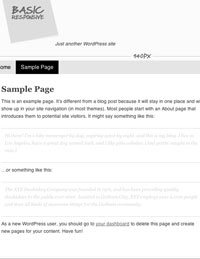
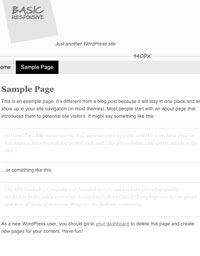
fixed absolute positioning issue on form validation (needed relative container), moved script calling to scripts.js

diff --git a/css/style.css b/css/style.css
@@ -85,12 +85,16 @@ background:white; color:black;}
 	-moz-transition:background-color 0.1s linear; 
 	transition:background 0.1s linear;
 	}
+	
+#formcontainer {
+	position:relative;
+}
 
 .nameval, .mailval, .msgval, .subjectval {
 	background: rgba(225, 0, 0, 0.8); color:#fff;
 	font-family:'Helvetica','Arial','Sans-serif';
 	display:none; font-size:12px; padding:5px;
-	position: absolute; top:502px; left:270px;
+	position: absolute; left:205px;
 	text-align:center; width:100px;
 	-webkit-transition:background-color 0.1s linear; 
 	-moz-transition:background-color 0.1s linear; 
@@ -98,9 +102,10 @@ background:white; color:black;}
 	border-radius:5px; -moz-border-radius:5px; -webkit-border-radius:5px;
 }
 
-.nameval {top:468px;}
-.subjectval {top:535px;}
-.msgval {top:573px;}
+.nameval {top:274px;}
+.mailval {top:308px;}
+.subjectval {top:342px;}
+.msgval {top:379px;}
 
 
 #contact input:focus:required:invalid,
@@ -150,8 +155,8 @@ background:white; color:black;}
 	}
 
 /*** CONTENT COLUMN ***/
-#web {margin-top: 38px;}
-#illustration, #print {margin:0;}
+article#content-col section:nth-child(1) {margin-top: 38px;}
+article#content-col section:nth-child(2), #content-col section:nth-child(3) {margin:0;}
 .portbox {width:200px; height:256px; float:left; margin:0;}
 .portbox h2 {font-size: 24px;} .portbox h3 {font-size: 20px;} .portbox p {font-size: 16px;}
 .portbox h2, .portbox h3 {font-weight:normal;} .portbox hr {width:190px; float:left; margin: 3px 0 3px 0;} 

diff --git a/scripts/scripts.js b/scripts/scripts.js
@@ -1,0 +1,3 @@
+$(document).ready(function(){
+		$("a[rel='showport']").colorbox({transition:"fade"});
+		});

diff --git a/css/functions.php b/css/functions.php
@@ -1,0 +1,106 @@
+<?php
+/** Start the engine **/
+require_once(TEMPLATEPATH.'/lib/init.php');
+require_once(CHILD_DIR.'/lib/custom-header.php');
+require_once(CHILD_DIR.'/lib/style.php');
+
+/** Child theme (do not remove) **/
+define('CHILD_THEME_NAME', 'Pretty Young Thing Theme');
+define('CHILD_THEME_URL', 'http://www.studiopress.com/themes/pretty');
+
+/** Add support for custom background **/
+add_custom_background();
+
+/** Add new image sizes **/
+add_image_size('grid-thumbnail', 100, 100, TRUE);
+
+
+/** Customize the post info function **/
+add_filter('genesis_post_info', 'pretty_post_info_filter');
+function pretty_post_info_filter( $post_info ) {
+	if ( ! is_page() ) {
+		$post_info = '[post_date] [post_comments] [post_edit]';
+		return $post_info;
+	}
+}
+
+/** Add after post ad widget area on single post **/
+add_action( 'genesis_after_post_content', 'pretty_after_post_ad' );
+function pretty_after_post_ad() {
+	if ( is_single() ) {
+		echo '<div class="after-post-ad">';
+		dynamic_sidebar( 'after-post-ad' );
+		echo '</div>';
+	}
+}
+
+/** Modify the size of the Gravatar in the author box **/
+add_filter( 'genesis_author_box_gravatar_size', 'pretty_gravatar_size' );
+function pretty_gravatar_size( $size ) {
+	return 80;
+}
+
+/** Add widgeted footer section **/
+add_action('genesis_before_footer', 'pretty_footer_widgets'); 
+function pretty_footer_widgets() {
+	include( CHILD_DIR . '/footer-widgets.php' );
+}
+
+/** Load CSS and JS **/
+add_action( 'get_header', 'visualize_scripts' );
+function visualize_scripts() {
+   if ( is_admin() )
+       return;
+   
+   /** Load Google Web fonts **/
+   wp_enqueue_style( 'josefin slab', 'http://fonts.googleapis.com/css?family=Josefin+Slab:regular,bold' );
+
+   /** Load JS to animate scroll **/
+   wp_enqueue_script( 'scroll', CHILD_URL . '/lib/js/scroll.js', array('jquery'), '', true );
+   
+}
+
+// Reposition the Primary Navigation
+remove_action( 'genesis_after_header', 'genesis_do_nav' );
+add_action('genesis_header', 'genesis_do_nav');
+
+/** Customize the footer top section **/
+add_action( 'genesis_after_footer', 'pretty_do_footer_top' ); 
+function pretty_do_footer_top() {
+	?>
+	<div class="footer-top">
+		<p><a href="#wrap"><?php _e( 'To the Top', CHILD_THEME_DOMAIN ); ?></a></p>
+	</div>
+	<?php
+}
+
+/** Define Default Genesis Options **/
+add_filter('genesis_options', 'pretty_genesis_setting_custom', 10, 2);
+function pretty_genesis_setting_custom($options, $setting) {
+    if($setting == GENESIS_SETTINGS_FIELD) {
+        $options['header_right'] = 0;
+        }
+    return $options;
+}
+
+/** Register widget areas **/
+genesis_register_sidebar( array(
+	'id'				=> 'after-post-ad',
+	'name'			=> __( 'After Post Ad', 'pretty' ),
+	'description'	=> __( 'This is the section after a post for an ad.', 'pretty' ),
+) );
+genesis_register_sidebar( array(
+	'id'				=> 'footer-1',
+	'name'			=> __( 'Footer #1', 'pretty' ),
+	'description'	=> __( 'This is the first column of the footer section.', 'pretty' ),
+) );
+genesis_register_sidebar( array(
+	'id'				=> 'footer-2',
+	'name'			=> __( 'Footer #2', 'pretty' ),
+	'description'	=> __( 'This is the second column of the footer section.', 'pretty' ),
+) );
+genesis_register_sidebar( array(
+	'id'				=> 'footer-3',
+	'name'			=> __( 'Footer #3', 'pretty' ),
+	'description'	=> __( 'This is the third column of the footer section.', 'pretty' ),
+) );

diff --git a/index.php b/index.php
@@ -8,12 +8,8 @@
 	<link media="screen" rel="stylesheet" href="css/colorbox.css" /> 
 	<script src="https://ajax.googleapis.com/ajax/libs/jquery/1.6.1/jquery.min.js"></script> 
 	<script src="scripts/jquery.colorbox.js"></script> 
+	<script src="scripts/scripts.js"></script> 
 
-	<script> 
-	$(document).ready(function(){
-		$("a[rel='showport']").colorbox({transition:"fade"});
-		});
-	</script> 
 
 </head>
 
@@ -64,6 +60,7 @@
 	//if "email" is not filled out, display the form
 	  {
 	  echo "
+	<div id='formcontainer'>
 	<form method='post' action='index.php'>
 	<fieldset>
 		<ol>
@@ -103,6 +100,7 @@
 		</ol>
 		</fieldset>	
 		</form>
+		</div>
 		<p>Not a fan of using forms? Feel free to <a href='mailto:james@byuncreative.com'>email me</a> directly!</p>";
 		
 	  }
@@ -113,7 +111,7 @@
 
 <article id="content-col">
 	
-	<section id="web">
+	<section>
 		<div class="portbox">
 			<h2>Web</h2>
 			<h3>Stagionis Ristorante</h3>
@@ -131,7 +129,7 @@
 		<div class="portbox"><a href="basic-rwd.html" rel="showport"><img src="images/thumb/rwd-thumb.jpg" alt="Basic Responsive - WordPress Template" title="Basic Responsive - WordPress Template" /></a></div>
 	</section>
 	
-	<section id="illustration">
+	<section>
 		<div class="portbox">
 			<h2>Illustration</h2>
 			<h3>Out of this World</h3>
@@ -142,14 +140,19 @@
 			<hr />
 			<h3>Thanks</h3>
 			<p>Personal</p>
+			<hr />
+			<h3>Rock the Red</h3>
+			<p>The Hockey Shop</p>
 		</div>
-		<div class="portbox"><a href="images/large/luongo.jpg" rel="showport"><img src="images/thumb/luongo-thumb.jpg" alt="Out of This Wolrd" title="Out of this World" /></a></div>
+		<div class="portbox"><a href="images/large/luongo.jpg" rel="showport"><img src="images/thumb/luongo-thumb.jpg" alt="Out of This Wolrd" title="Out of this World" /></a>
+				</div>
 		<div class="portbox"><a href="images/large/tiger.jpg" rel="showport"><img src="images/thumb/tiger-thumb.jpg" alt="MK Tiger" title="MK Tiger" /></a></div>
 		<div class="portbox"><a href="images/large/thanks.jpg" rel="showport"><img src="images/thumb/thanks-thumb.jpg" alt="Thanks" title="Thanks" /></a></div>
 	</section>
 	
-	<section id="print">
-		<div class="portbox">
+	<section>
+		<div class="portbox"><a href="images/large/thanks.jpg" rel="showport"><img src="images/thumb/ovy-thumb.jpg" alt="Rock the Red" title="Rock the Red" /></a></div>
+				<div class="portbox">
 			<h2>Print</h2>
 			<h3>Moving Sale</h3>
 			<p>The Hockey Shop</p>
